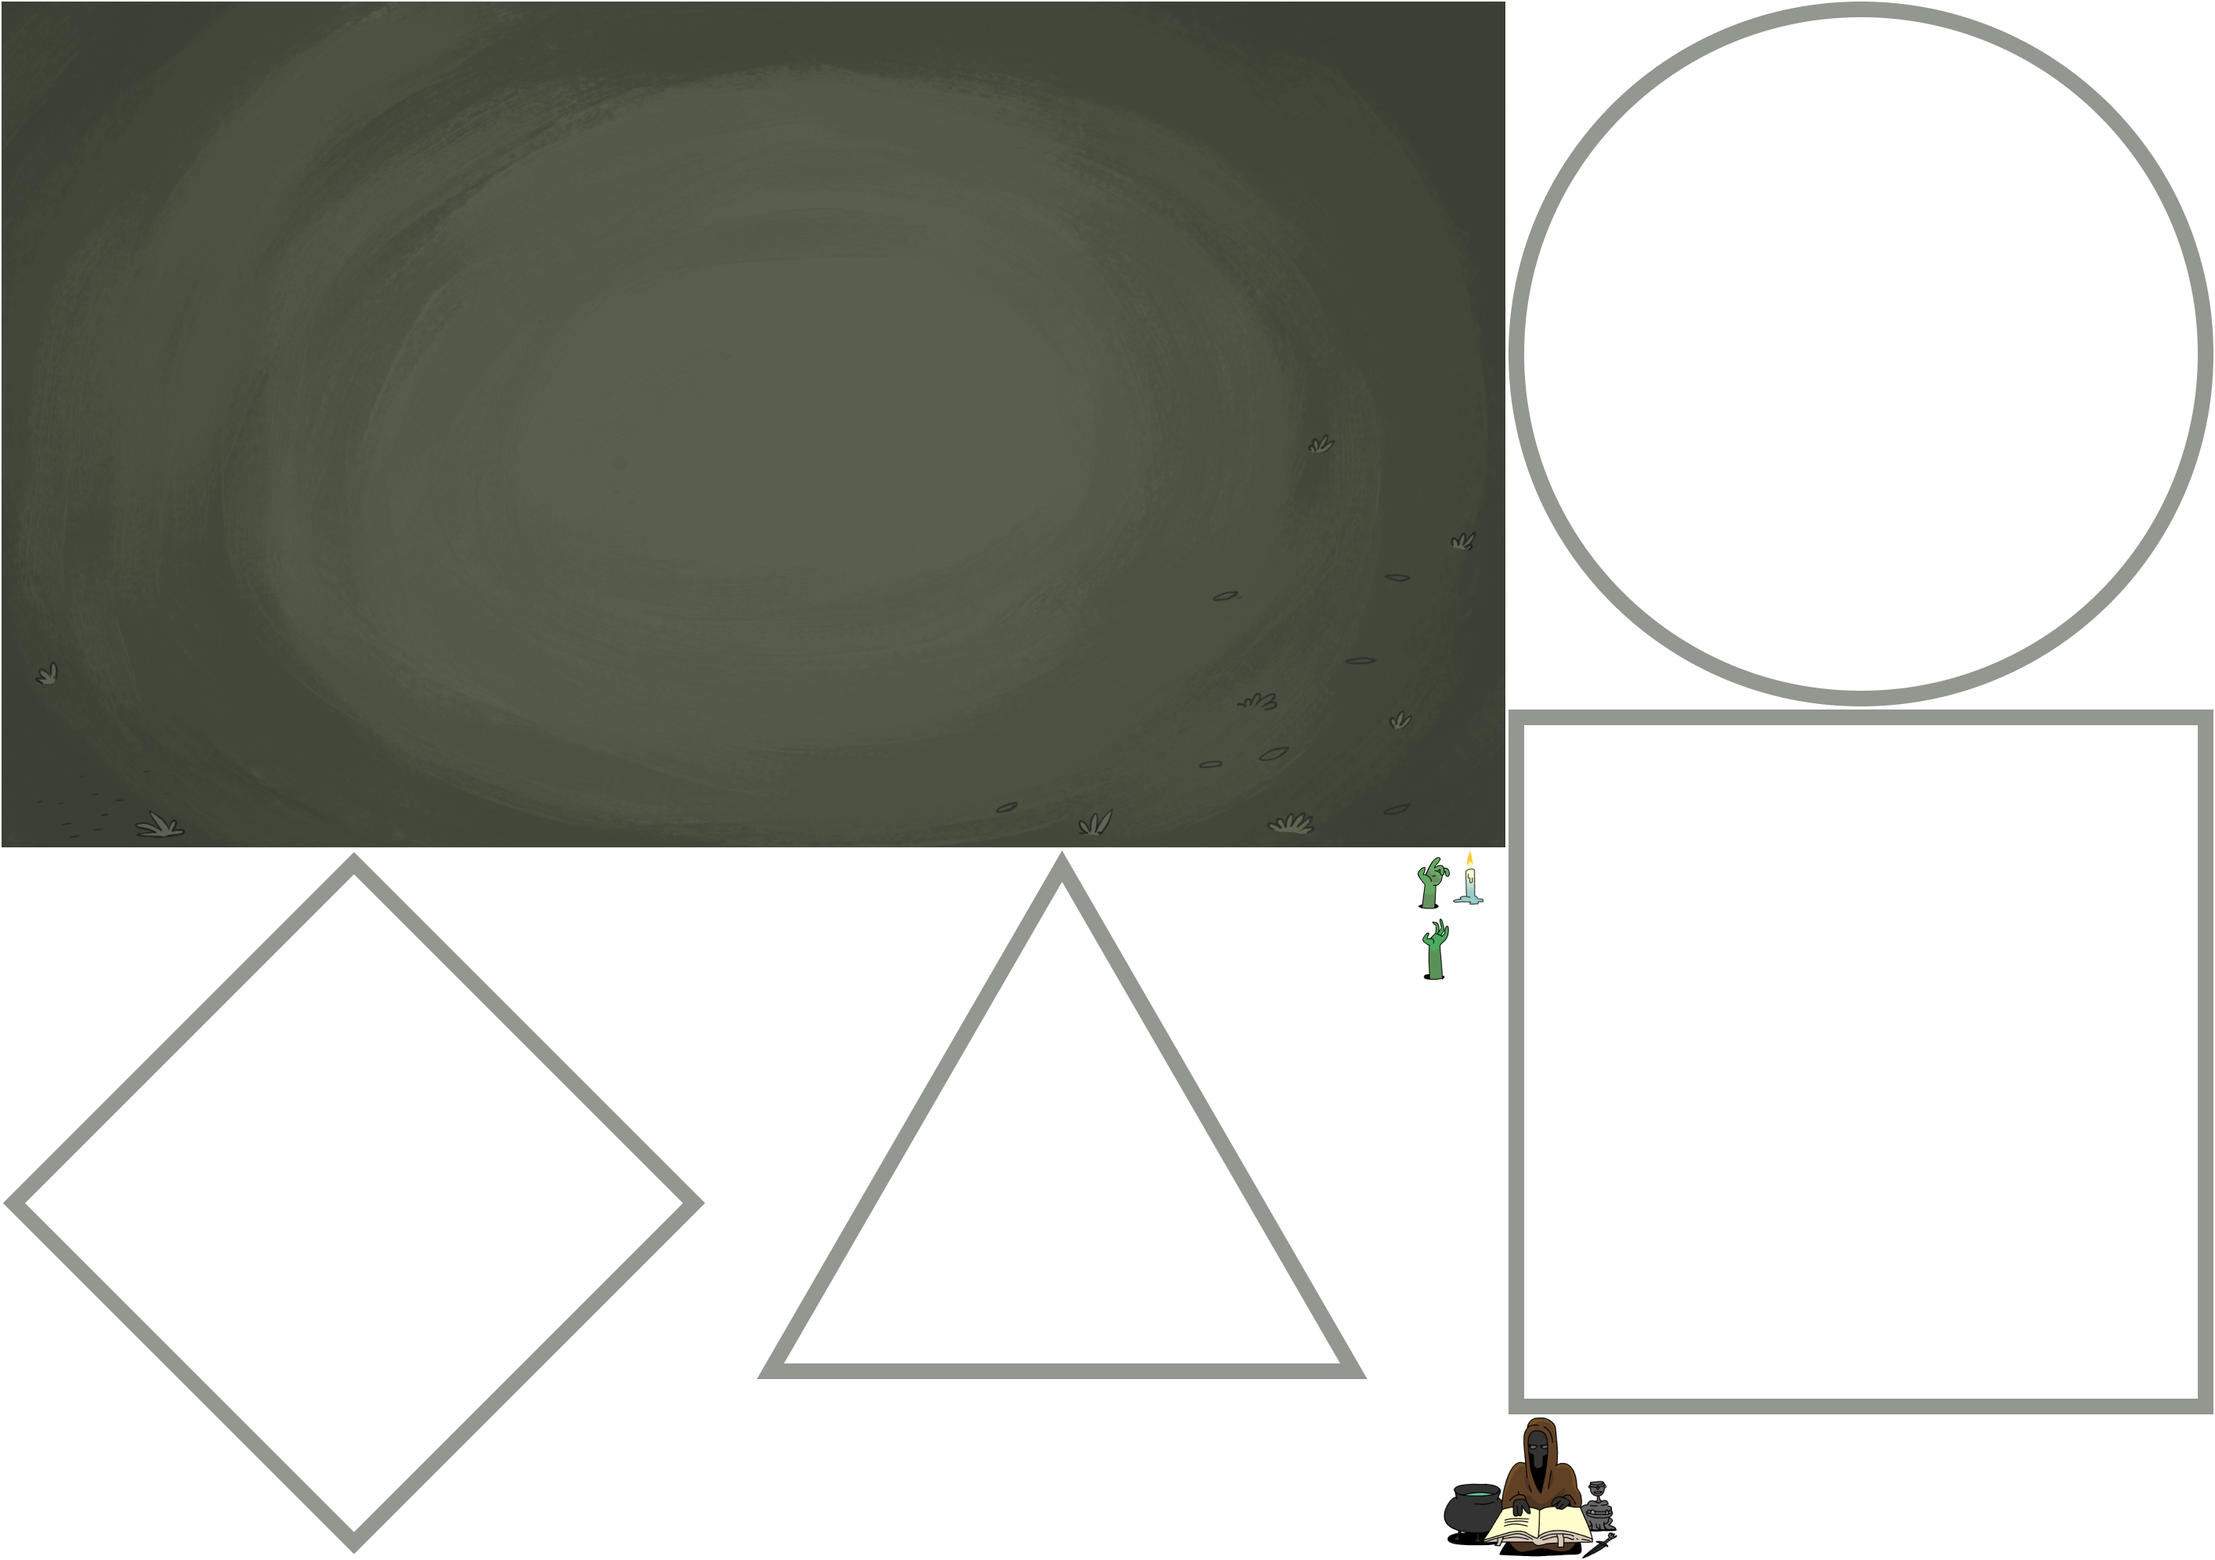
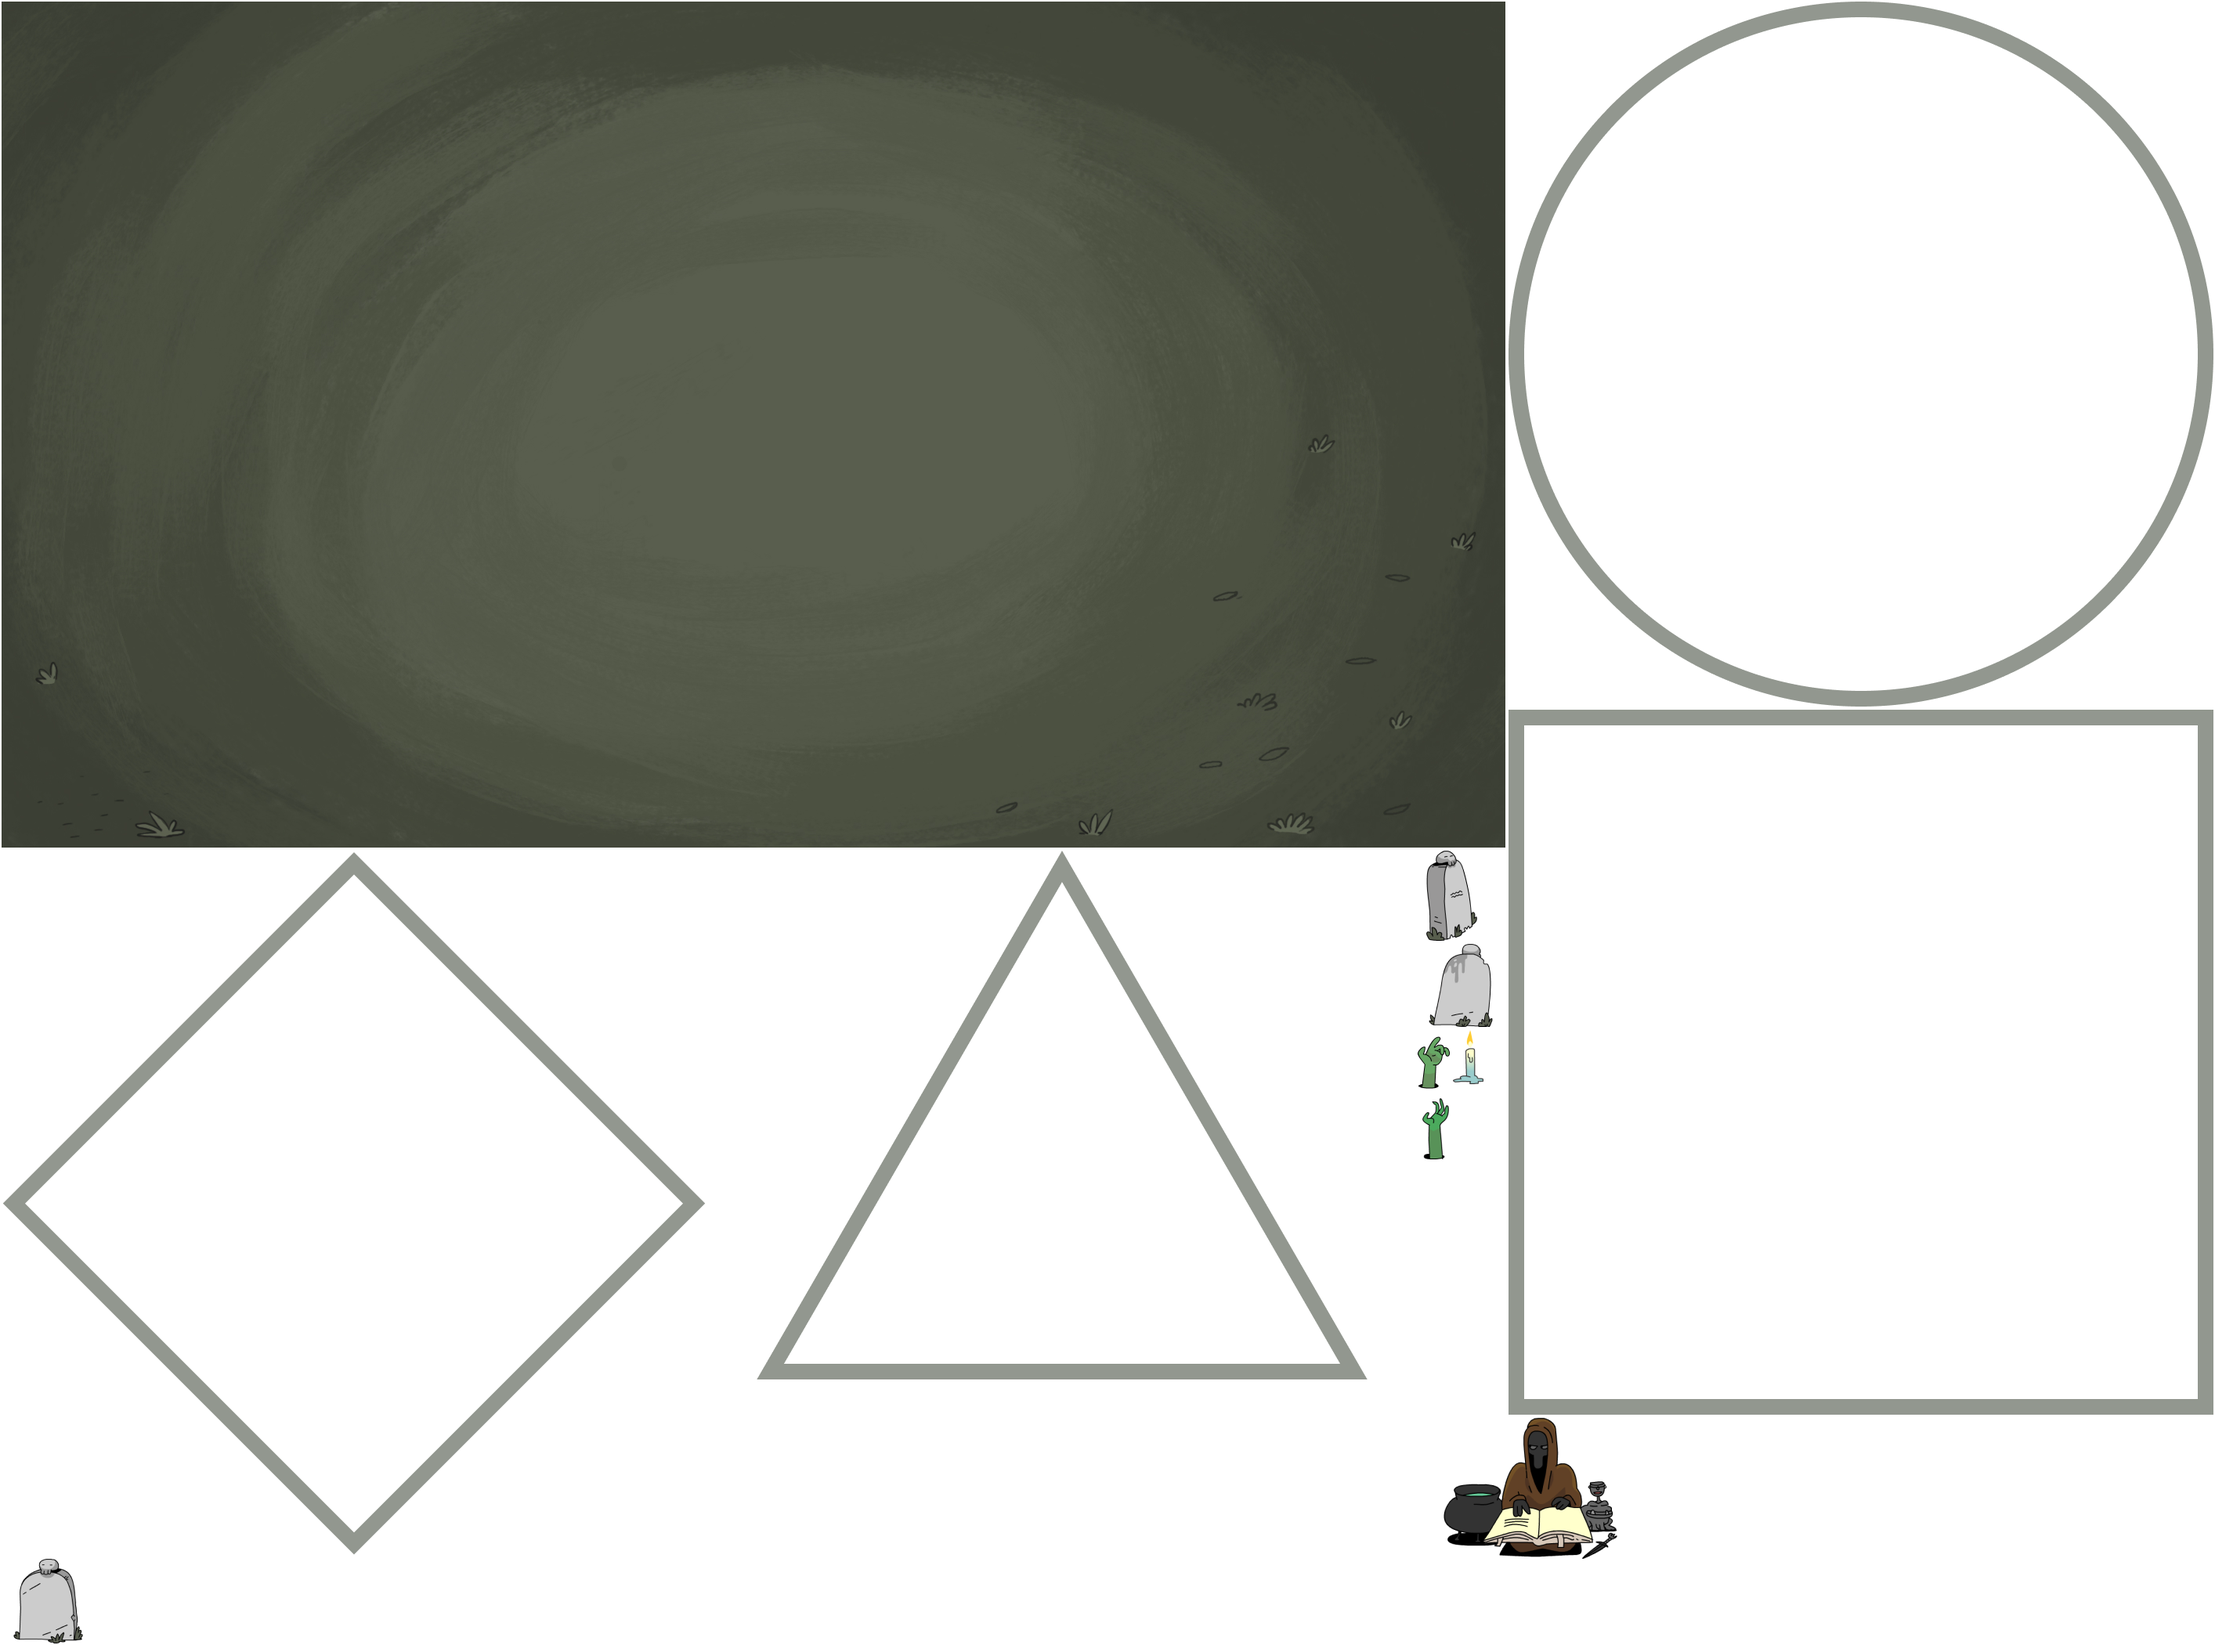
mvp

diff --git a/src/game/components/objects/tombstone.ts b/src/game/components/objects/tombstone.ts
@@ -1,0 +1,34 @@
+import type { ActorArgs, Sprite } from 'excalibur';
+import { Actor, Vector } from 'excalibur';
+import { Assets } from '@/game/resources/assets';
+import { TAGS } from '@/enums';
+import res from '@/res';
+
+export default class Tombstone extends Actor {
+	constructor(props: ActorArgs, private inConstructIndex: number, private constructionRotated: boolean) {
+		super(props);
+	}
+
+	onInitialize() {
+		this.addTag(TAGS.Z_AXIS_SORT);
+
+		this.initGraphics();
+	}
+
+	private initGraphics() {
+		const assetName = ([
+			[Assets.TOMBSTONES__3, Assets.TOMBSTONES__2],
+			[Assets.TOMBSTONES__3, Assets.TOMBSTONES__1],
+			[Assets.TOMBSTONES__1, Assets.TOMBSTONES__1],
+			[Assets.TOMBSTONES__2, Assets.TOMBSTONES__2],
+		][this.inConstructIndex][this.constructionRotated ? 1 : 0]);
+
+		const sprite = <Sprite>res.assets.getFrameSprite(assetName);
+
+		sprite.flipHorizontal = !this.constructionRotated && this.inConstructIndex === 1;
+
+		this.graphics.use(sprite, {
+			anchor: sprite.origin || Vector.Zero,
+		});
+	}
+}

diff --git a/src/game/scenes/Stage.ts b/src/game/scenes/Stage.ts
@@ -2,7 +2,7 @@ import { Scene } from 'excalibur';
 import Circular from '@/game/components/constructions/circular';
 import HellishHugs from '@/game/components/constructions/hellish-hugs';
 import ManaCandles from '@/game/components/constructions/mana-candles';
-import Tombstone from '@/game/components/constructions/tombstone';
+import Tombstones from '@/game/components/constructions/tombstones';
 import type Construction from '@/game/components/construction';
 import { STAGE_EVENTS } from '@/enums';
 import StageBg from '@/game/components/stage-bg';
@@ -11,7 +11,7 @@ import ZAxisSortSystem from '@/game/partials/z-axis-sort-system';
 
 export default class Stage extends Scene {
 	onInitialize() {
-		this.camera.pos.setTo(0, 0);
+		this.camera.pos.setTo(0, -25);
 
 		this.world.add(new ZAxisSortSystem());
 	}
@@ -34,7 +34,7 @@ export default class Stage extends Scene {
 	}
 
 	placeTombstone() {
-		this.placeConstruction(new Tombstone());
+		this.placeConstruction(new Tombstones());
 	}
 
 	private addBg() {

diff --git a/src/game/components/constructions/tombstones.ts b/src/game/components/constructions/tombstones.ts
@@ -1,0 +1,29 @@
+import Construction from '@/game/components/construction';
+import type { Sprite } from 'excalibur';
+import { toDegrees, toRadians, vec } from 'excalibur';
+import res from '@/res';
+import { Assets } from '@/game/resources/assets';
+import Tombstone from '@/game/components/objects/tombstone';
+
+export default class Tombstones extends Construction {
+	formSprite = <Sprite>res.assets.getFrameSprite(Assets.FORMS__RHOMBUS);
+
+	protected rotate() {
+		this.rotation += toRadians(45);
+	}
+
+	protected addObjects() {
+		const positions = [
+			vec(430, 0),
+			vec(-430, 0),
+			vec(0, -430),
+			vec(0, 430),
+		];
+
+		for (let [index, position] of positions.entries()) {
+			this.scene.add(new Tombstone({
+				pos: position.scale(this.scale).rotate(this.rotation % toRadians(90)),
+			}, index, toDegrees(this.rotation) % 90 !== 0));
+		}
+	}
+}

diff --git a/src/game/resources/assets.ts b/src/game/resources/assets.ts
@@ -1,4 +1,7 @@
 export enum Assets {
+	'TOMBSTONES__3' = 'tombstones/3',
+	'TOMBSTONES__2' = 'tombstones/2',
+	'TOMBSTONES__1' = 'tombstones/1',
 	'HANDS__2' = 'hands/2',
 	'HANDS__1' = 'hands/1',
 	'FORMS__TRIANGLE' = 'forms/triangle',

diff --git a/src/game/components/stage-bg.ts b/src/game/components/stage-bg.ts
@@ -4,6 +4,7 @@ import { Assets } from '@/game/resources/assets';
 
 export default class StageBg extends Actor {
 	onInitialize() {
+		this.pos.setTo(0, -25);
 		this.initGraphics();
 	}
 
